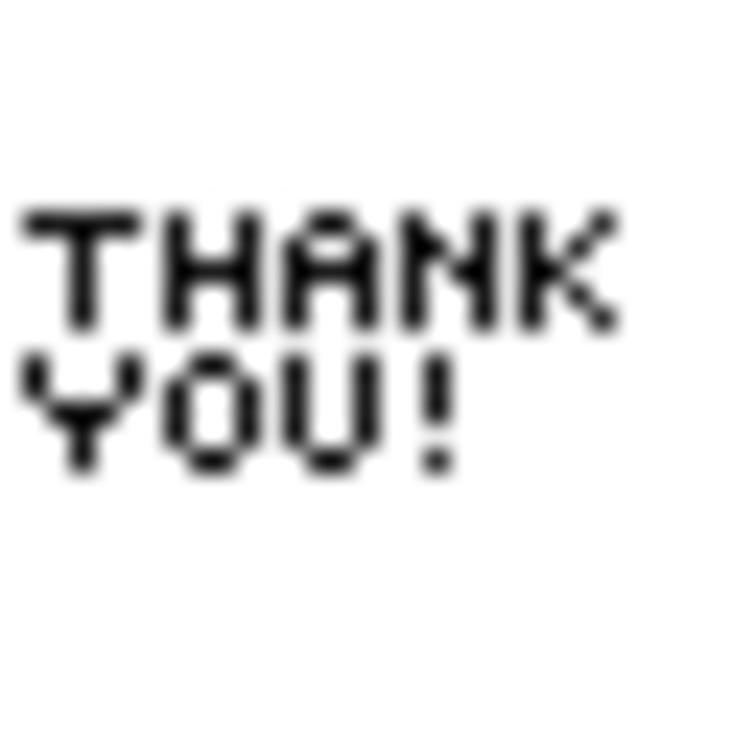
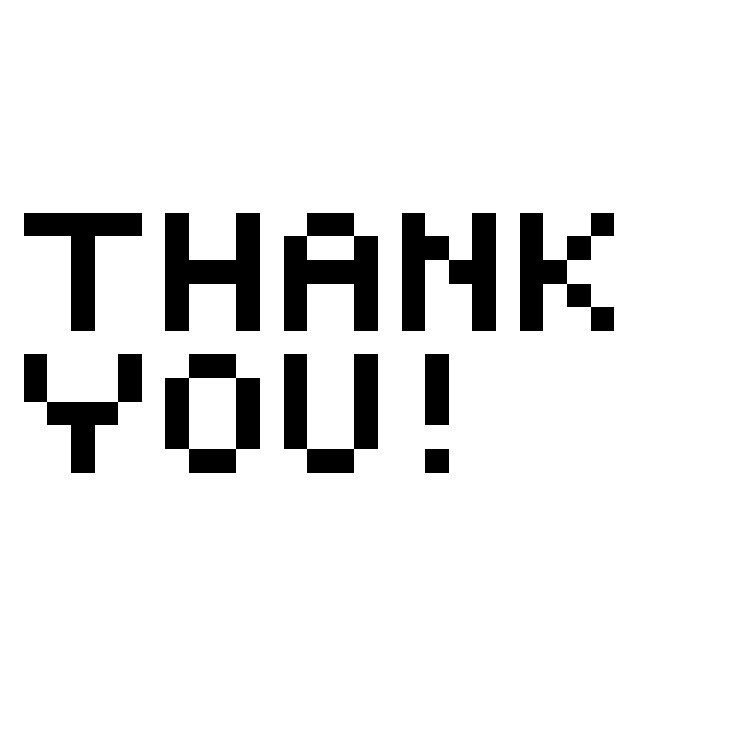
Fixed level 5 image and updated the readme file

Changed region(s): [[0.0, 0.2434, 0.8214, 0.6389]]

diff --git a/README.md b/README.md
@@ -1,2 +1,2 @@
 # Nature_Shots
- 
+Nature Shots is a game where a small, hollow rectangle moves around a pixel image of some sort of scenery, and for every object it touches, a certain amount of points is given for the level.To run the game, go to finder, right-click the Nature_Shots file, go to Services, and click "New Terminal at Folder". To move the rectangle around the screen, use the arrow keys.
